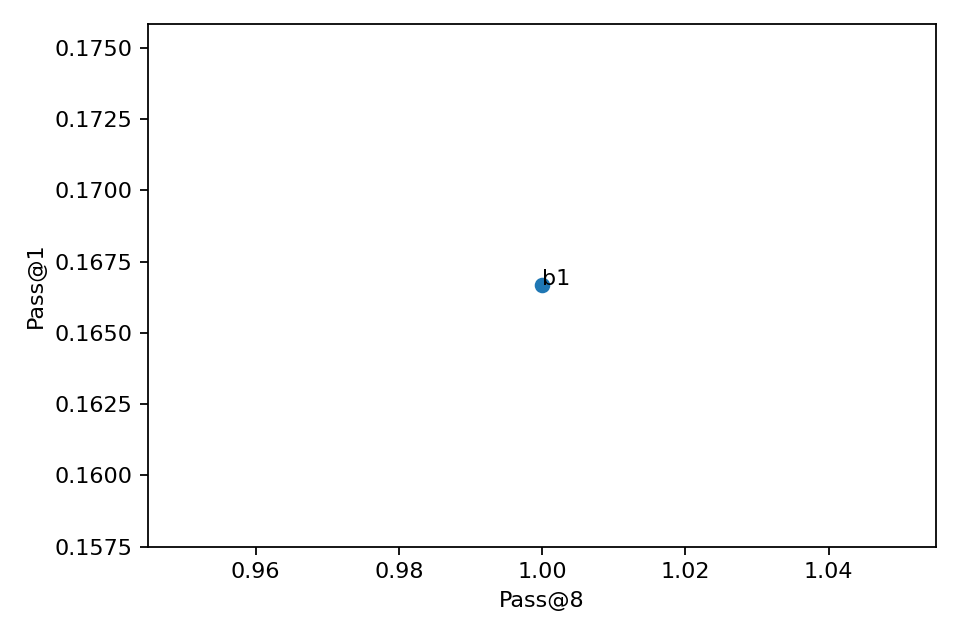
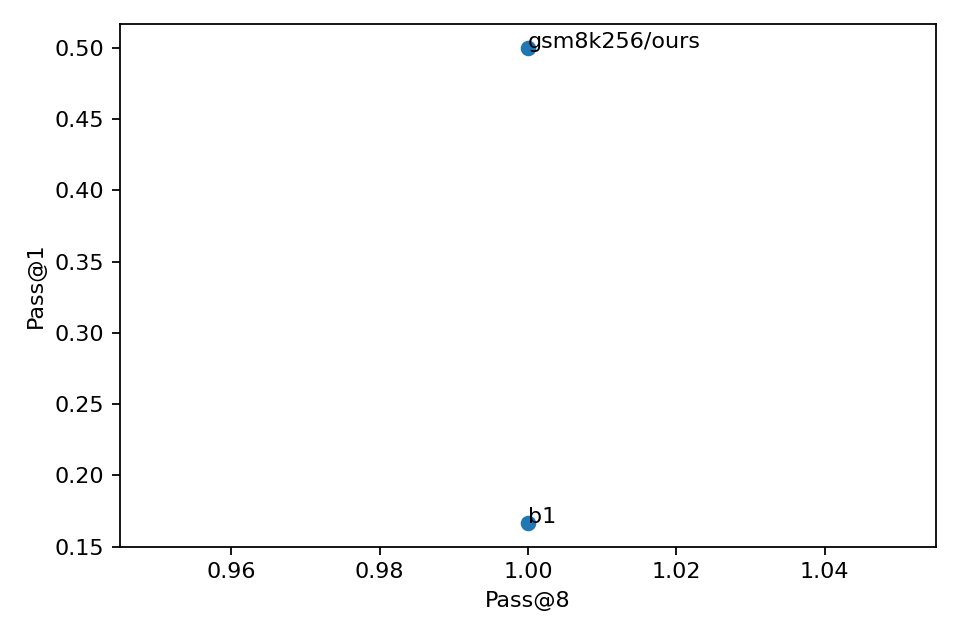
Add GSM8K 256-token run profile

diff --git a/opd_grpo_gradstruct/train_e2e.py b/opd_grpo_gradstruct/train_e2e.py
@@ -151,20 +151,77 @@ def build_component_gradients(
     rollout_advantages: list[float],
     lambda_joint: float,
 ) -> tuple[torch.Tensor, torch.Tensor, torch.Tensor, torch.Tensor]:
+    flat_p, flat_tau, flat_tokens, adv = flatten_gradient_inputs(
+        probs, teacher_probs, token_ids, valid_mask, rollout_advantages
+    )
+    g_grpo, g_opd, g_joint = build_needed_component_gradients(
+        flat_p,
+        flat_tau,
+        flat_tokens,
+        adv,
+        lambda_joint,
+        need_grpo=True,
+        need_opd=True,
+        need_joint=True,
+    )
+    return g_grpo, g_opd, g_joint, flat_tokens
+
+
+def flatten_gradient_inputs(
+    probs: torch.Tensor,
+    teacher_probs: torch.Tensor,
+    token_ids: torch.Tensor,
+    valid_mask: torch.Tensor,
+    rollout_advantages: list[float],
+) -> tuple[torch.Tensor, torch.Tensor, torch.Tensor, torch.Tensor]:
     flat_p = probs[valid_mask].float()
     flat_tau = teacher_probs[valid_mask].float()
     flat_tokens = token_ids[valid_mask]
     adv = flat_advantages(valid_mask, rollout_advantages, flat_p.device)
+    return flat_p, flat_tau, flat_tokens, adv
+
+
+def build_needed_component_gradients(
+    flat_p: torch.Tensor,
+    flat_tau: torch.Tensor,
+    flat_tokens: torch.Tensor,
+    adv: torch.Tensor,
+    lambda_joint: float,
+    *,
+    need_grpo: bool,
+    need_opd: bool,
+    need_joint: bool,
+) -> tuple[torch.Tensor, torch.Tensor, torch.Tensor]:
     rows = torch.arange(flat_tokens.numel(), device=flat_p.device)
 
-    g_opd = flat_p - flat_tau
-    g_grpo = flat_p * adv[:, None]
-    if flat_tokens.numel():
-        g_grpo[rows, flat_tokens] -= adv
-    g_joint = flat_p - (1.0 - lambda_joint) * flat_tau
-    if flat_tokens.numel():
-        g_joint[rows, flat_tokens] -= lambda_joint * adv
-    return g_grpo, g_opd, g_joint, flat_tokens
+    empty = torch.empty(0, device=flat_p.device, dtype=flat_p.dtype)
+    if need_opd:
+        g_opd = flat_p - flat_tau
+    else:
+        g_opd = empty
+    if need_grpo:
+        g_grpo = flat_p * adv[:, None]
+        if flat_tokens.numel():
+            g_grpo[rows, flat_tokens] -= adv
+    else:
+        g_grpo = empty
+    if need_joint:
+        g_joint = flat_p - (1.0 - lambda_joint) * flat_tau
+        if flat_tokens.numel():
+            g_joint[rows, flat_tokens] -= lambda_joint * adv
+    else:
+        g_joint = empty
+    return g_grpo, g_opd, g_joint
+
+
+def needed_gradient_flags(condition: str) -> tuple[bool, bool, bool]:
+    if condition == "b1":
+        return True, False, False
+    if condition == "b2":
+        return False, True, False
+    if condition == "b3":
+        return False, False, True
+    return True, True, False
 
 
 def select_condition_delta(
@@ -355,7 +412,8 @@ def train_one_step(
     sequences = sequences_cpu.to(device)
     outputs = student(sequences)
     logits = outputs.logits[:, prompt_len - 1 : -1, :].float()
-    probs = F.softmax(logits, dim=-1)
+    with torch.no_grad():
+        probs = F.softmax(logits, dim=-1)
     token_ids = sequences[:, prompt_len:]
     if not torch.equal(token_ids.detach().cpu(), teacher_token_ids):
         raise RuntimeError("Teacher/student token id mismatch on shared rollout.")
@@ -363,14 +421,23 @@ def train_one_step(
     valid_mask = valid_mask & teacher_valid_cpu.to(device)
     teacher_probs = teacher_probs_cpu.to(device=device, dtype=torch.float32)
 
-    g_grpo, g_opd, g_joint, _flat_tokens = build_component_gradients(
-        probs=probs,
-        teacher_probs=teacher_probs,
-        token_ids=token_ids,
-        valid_mask=valid_mask,
-        rollout_advantages=advantages,
-        lambda_joint=float(cfg["lambda_joint"]),
+    flat_p, flat_tau, flat_tokens, flat_adv = flatten_gradient_inputs(
+        probs, teacher_probs, token_ids, valid_mask, advantages
     )
+    token_entropy = -(flat_p.clamp_min(1e-30) * flat_p.clamp_min(1e-30).log()).sum(dim=-1)
+    kl = (flat_p.clamp_min(1e-30) * (flat_p.clamp_min(1e-30).log() - flat_tau.clamp_min(1e-30).log())).sum(dim=-1)
+    need_grpo, need_opd, need_joint = needed_gradient_flags(condition)
+    g_grpo, g_opd, g_joint = build_needed_component_gradients(
+        flat_p=flat_p,
+        flat_tau=flat_tau,
+        flat_tokens=flat_tokens,
+        adv=flat_adv,
+        lambda_joint=float(cfg["lambda_joint"]),
+        need_grpo=need_grpo,
+        need_opd=need_opd,
+        need_joint=need_joint,
+    )
+    del flat_p, flat_tau, flat_adv
     delta, route_meta = select_condition_delta(condition, g_grpo, g_opd, g_joint, cfg, rng)
     direction_before, direction_after, direction_delta, direction_ok, direction_active = reward_direction_sanity(
         logits=logits,
@@ -385,12 +452,8 @@ def train_one_step(
     if int(valid_mask.sum().item()) > 0:
         grad_logits[valid_mask] = delta / float(valid_mask.sum().item())
 
-    token_entropy = -(probs[valid_mask].clamp_min(1e-30) * probs[valid_mask].clamp_min(1e-30).log()).sum(dim=-1)
-    kl = (
-        probs[valid_mask].clamp_min(1e-30)
-        * (probs[valid_mask].clamp_min(1e-30).log() - teacher_probs[valid_mask].clamp_min(1e-30).log())
-    ).sum(dim=-1)
     loss_proxy = float((logits.detach()[valid_mask] * grad_logits.detach()[valid_mask]).sum().item())
+    del delta, g_grpo, g_opd, g_joint, probs, teacher_probs
     inject_logit_gradient(logits, grad_logits)
     gnorm = grad_norm(student)
     optimizer.step()

diff --git a/opd_grpo_gradstruct/summarize_e2e.py b/opd_grpo_gradstruct/summarize_e2e.py
@@ -26,6 +26,22 @@ def read_jsonl(path: Path) -> list[dict]:
     return rows
 
 
+def annotate_run_rows(rows: list[dict], path: Path, runs: Path) -> list[dict]:
+    rel = path.relative_to(runs)
+    parts = rel.parts
+    run_group = "default"
+    if len(parts) >= 4:
+        run_group = parts[0]
+    run_path = str(path.parent)
+    out = []
+    for row in rows:
+        row = dict(row)
+        row.setdefault("run_group", run_group)
+        row.setdefault("run_path", run_path)
+        out.append(row)
+    return out
+
+
 def main() -> None:
     args = parse_args()
     runs = Path(args.runs_dir)
@@ -33,10 +49,10 @@ def main() -> None:
     out.mkdir(parents=True, exist_ok=True)
     train_rows = []
     eval_rows = []
-    for train_path in runs.glob("*/*/train.jsonl"):
-        train_rows.extend(read_jsonl(train_path))
-    for eval_path in runs.glob("*/*/eval.jsonl"):
-        eval_rows.extend(read_jsonl(eval_path))
+    for train_path in runs.rglob("train.jsonl"):
+        train_rows.extend(annotate_run_rows(read_jsonl(train_path), train_path, runs))
+    for eval_path in runs.rglob("eval.jsonl"):
+        eval_rows.extend(annotate_run_rows(read_jsonl(eval_path), eval_path, runs))
     train = pd.DataFrame(train_rows)
     evals = pd.DataFrame(eval_rows)
     if not evals.empty:
@@ -44,11 +60,12 @@ def main() -> None:
         skipped = evals["skipped"].astype(bool) if "skipped" in evals.columns else False
         gsm = evals[(evals.get("dataset") == "gsm8k") & (~skipped)]
         if not gsm.empty and {"pass_at_1", "pass_at_8"}.issubset(gsm.columns):
-            agg = gsm.groupby("condition").agg(pass_at_1=("pass_at_1", "mean"), pass_at_8=("pass_at_8", "mean")).reset_index()
+            agg = gsm.groupby(["run_group", "condition"]).agg(pass_at_1=("pass_at_1", "mean"), pass_at_8=("pass_at_8", "mean")).reset_index()
             plt.figure(figsize=(6, 4))
             plt.scatter(agg["pass_at_8"], agg["pass_at_1"])
             for _, row in agg.iterrows():
-                plt.annotate(row["condition"], (row["pass_at_8"], row["pass_at_1"]))
+                label = row["condition"] if row["run_group"] == "default" else f"{row['run_group']}/{row['condition']}"
+                plt.annotate(label, (row["pass_at_8"], row["pass_at_1"]))
             plt.xlabel("Pass@8")
             plt.ylabel("Pass@1")
             plt.tight_layout()
@@ -58,7 +75,7 @@ def main() -> None:
         pd.DataFrame().to_csv(out / "final_summary.csv", index=False)
 
     if not train.empty:
-        speed = train.groupby(["condition", "seed"]).agg(
+        speed = train.groupby(["run_group", "condition", "seed"]).agg(
             wall_seconds_mean=("wall_seconds", "mean"),
             wall_seconds_std=("wall_seconds", "std"),
             peak_memory_mb_max=("peak_memory_mb", "max"),
@@ -67,9 +84,10 @@ def main() -> None:
         )
         speed.to_csv(out / "speed_memory_table.csv")
         plt.figure(figsize=(8, 4))
-        for cond, grp in train.groupby("condition"):
+        for (run_group, cond), grp in train.groupby(["run_group", "condition"]):
             grp = grp.sort_values("step")
-            plt.plot(grp["step"], grp["reward_mean"], label=cond)
+            label = cond if run_group == "default" else f"{run_group}/{cond}"
+            plt.plot(grp["step"], grp["reward_mean"], label=label)
         plt.xlabel("step")
         plt.ylabel("reward")
         plt.legend()

diff --git a/opd_grpo_gradstruct/eval_e2e.py b/opd_grpo_gradstruct/eval_e2e.py
@@ -21,6 +21,7 @@ from .train_e2e import load_e2e_config, set_seed
 def parse_args() -> argparse.Namespace:
     parser = argparse.ArgumentParser()
     parser.add_argument("--config", required=True)
+    parser.add_argument("--condition")
     parser.add_argument("--model-path")
     parser.add_argument("--output-dir")
     parser.add_argument("--seed", type=int)
@@ -174,6 +175,8 @@ def append_jsonl(path: Path, row: dict[str, Any]) -> None:
 def main() -> None:
     args = parse_args()
     cfg = load_e2e_config(args.config)
+    if args.condition:
+        cfg["condition"] = args.condition
     if args.seed is not None:
         cfg["seed"] = args.seed
     seed = int(cfg.get("seed", 42))